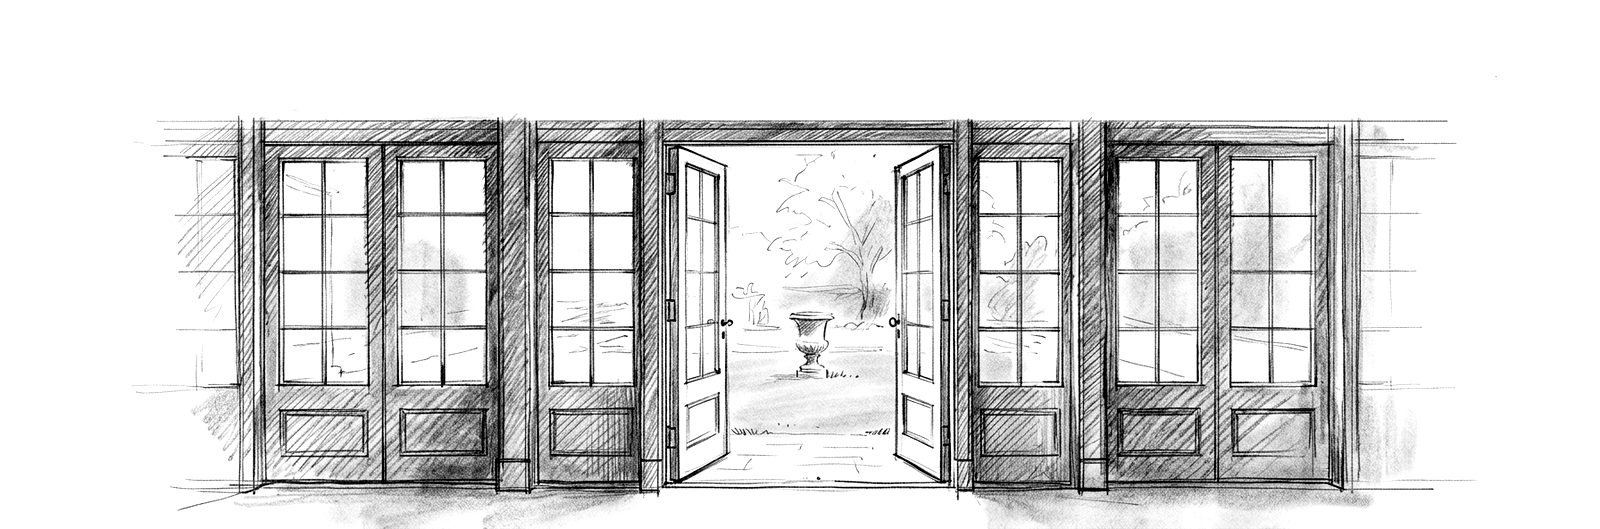
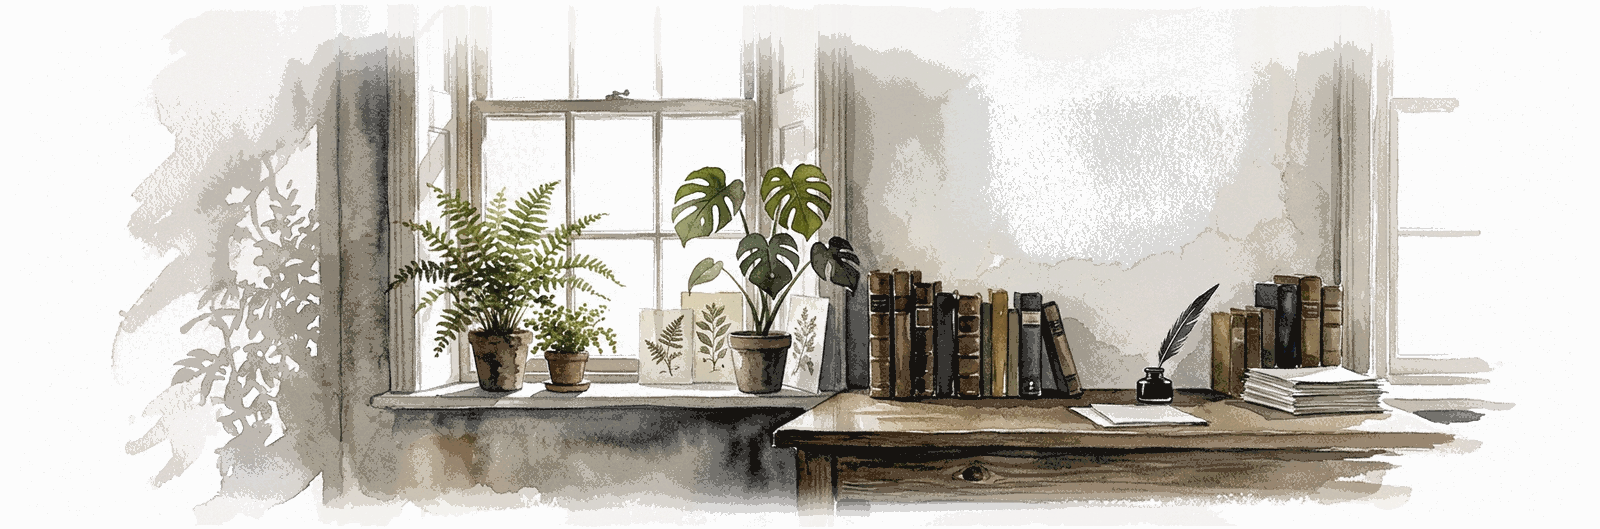
feat(getting-started): the room's frontispiece is a watercolor of a scholar's window
The graphite study of the garden doors is replaced by a watercolor —
ferns and a monstera on a sill, botanical prints, a row of books and an
inkwell, morning light through old glass — chosen from four candidates
(Oxford reading room, walled garden, the doors again, this).

It is paint, not a mask, so the treatment changes. The paper is knocked
out to alpha (unmultiplied against white) and the edges feathered so the
wash trails off into the page, which is what a wash on paper is. On dark
themes pigment over ink would smudge, so the figure lays a paper card
under it — a tipped-in plate — driven by `--identity-dark`, the flag each
dark theme already sets, so no theme is named in the component.

1600x529 quantized PNG with alpha, 266 KB (the WebP was twice that).
Generated on the local gateway with Nano Banana 2; the prompt is the
lever: wet-on-wet, granulating, paper left bare at the edges, muted
low-chroma palette, "no people, no text, no signature, no frame".

diff --git a/apps/web/src/lib/components/chat/getting-started/RoomCover.svelte b/apps/web/src/lib/components/chat/getting-started/RoomCover.svelte
@@ -1,56 +1,63 @@
 <!--
-	The room's frontispiece: a graphite study of the library's garden doors,
-	the centre pair standing open.
+	The room's frontispiece: a watercolor of a scholar's window — ferns and a
+	monstera on the sill, botanical prints, a row of books and an inkwell on
+	the desk, morning light through old glass.
 
-	It is a MASK, not a picture. The drawing is one ink, so the PNG carries
-	only its alpha and the page paints it with the foreground token —
-	graphite on paper in the light theme, chalk on ink in the dark one. No
-	rectangle, no paper colour of its own to clash with the page, and it
-	needs no border or fade to stop looking like a component: the drawing
-	simply trails off into the page at its edges, because the study does.
+	It is paint, not a mask. The graphite study that stood here was one ink
+	on alpha, so the page could tint it with the foreground token and it
+	flipped to chalk on a dark theme for free. A watercolor has its own
+	colors, so the trick is different: the white of the paper is knocked out
+	to alpha (unmultiplied against white, `tools`-side, once), which is what
+	a wash on a page IS — pigment over whatever the paper is. On a light
+	theme the picture sits straight on the page and trails off into it at
+	the edges, because the painting does. On a dark theme pigment over ink
+	would read as a smudge, so the figure lays a paper card under it: a
+	tipped-in plate, the way a book carries a color plate on its own stock.
+	The card's paper and inset are driven by `--identity-dark`, the flag each
+	dark theme already sets beside its palette, so no theme is named here.
 
-	The oil painting that stood here first ran the full width of the pane
-	and made the room read as two products stacked — a cinematic band over a
-	column of chat. This sits inside the column, at the measure of the words.
+	It sits inside the column, at the measure of the words. The oil painting
+	that stood here first ran the full width of the pane and made the room
+	read as two products stacked.
 -->
 <script lang="ts">
 	let visible = $state(false);
-	// The mask has no intrinsic paint, so there is no load event to wait on
-	// the way an <img> gives one; fade the block in once it is in the DOM.
-	$effect(() => {
-		const id = requestAnimationFrame(() => (visible = true));
-		return () => cancelAnimationFrame(id);
-	});
 </script>
 
-<figure
-	class="cover"
-	class:visible
-	role="img"
-	aria-label="A pencil study of a library's garden doors, the centre pair standing open onto a lawn and a stone urn"
-></figure>
+<figure class="cover" class:visible>
+	<img
+		src="/covers/getting-started.png"
+		alt="A watercolor of a scholar's window: ferns and a monstera on the sill beside botanical prints, a row of books and an inkwell on the desk below, morning light through old glass"
+		width="1600"
+		height="529"
+		decoding="async"
+		onload={() => (visible = true)}
+	/>
+</figure>
 
 <style>
 	.cover {
+		/* The paper card exists only where `--identity-dark` is 1: on a light
+		   theme both the tint and the inset compute to nothing, and the
+		   painting sits directly on the page. */
+		--plate-dark: var(--identity-dark, 0);
+		--plate-paper: #f3efe6;
 		margin: 0 0 1.5rem;
-		width: 100%;
-		aspect-ratio: 1600 / 529;
-		background-color: var(--color-foreground);
-		/* Graphite reads heavy at full strength against body copy; this is a
-		   drawing in the margin of the page, not the page's subject. */
+		padding: calc(var(--plate-dark) * 14px);
+		border-radius: calc(var(--plate-dark) * 6px);
+		background: color-mix(in srgb, var(--plate-paper) calc(var(--plate-dark) * 100%), transparent);
 		opacity: 0;
 		transition: opacity 0.6s ease;
-		-webkit-mask-image: url("/covers/getting-started.png");
-		mask-image: url("/covers/getting-started.png");
-		-webkit-mask-size: contain;
-		mask-size: contain;
-		-webkit-mask-repeat: no-repeat;
-		mask-repeat: no-repeat;
-		-webkit-mask-position: center;
-		mask-position: center;
 	}
 	.cover.visible {
-		opacity: 0.78;
+		/* A plate in the margin of the page, not the page's subject. */
+		opacity: 0.92;
+	}
+	.cover img {
+		display: block;
+		width: 100%;
+		height: auto;
+		aspect-ratio: 1600 / 529;
 	}
 	@media (prefers-reduced-motion: reduce) {
 		.cover {
